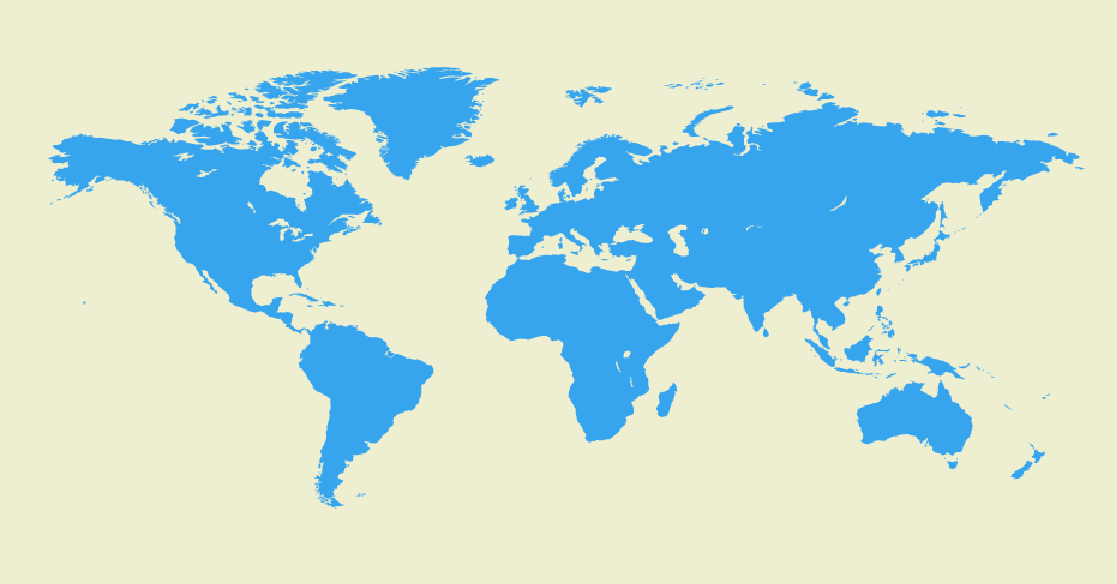
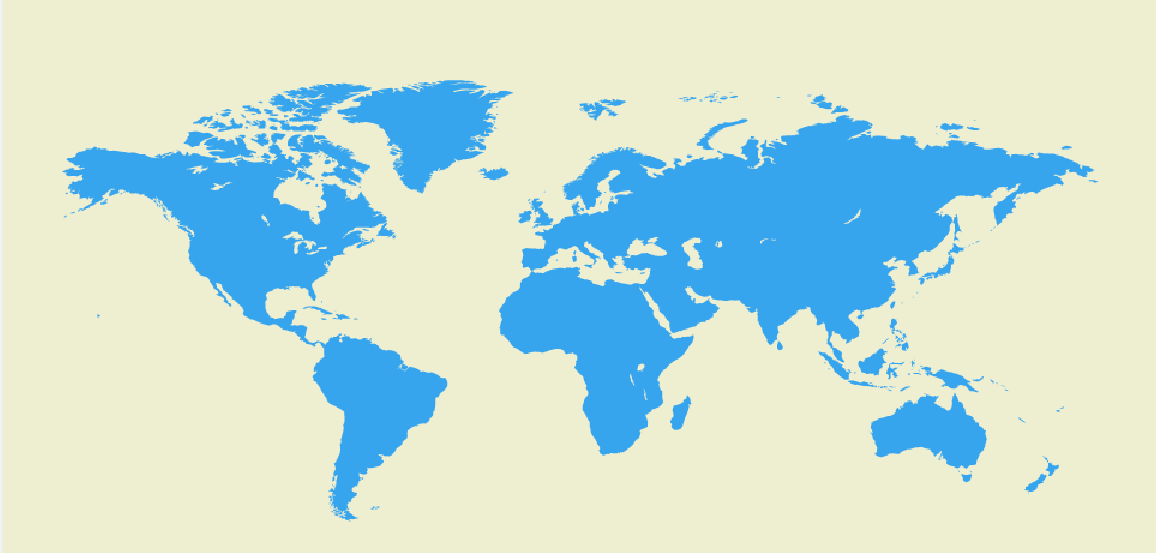
map
map

Changed region(s): [[0.0304, 0.0922, 0.974, 0.953], [0.8827, 0.7685, 0.9436, 0.8915], [0.7305, 0.3382, 0.761, 0.3689]]

diff --git a/src/components/test/login.vue b/src/components/test/login.vue
@@ -1,0 +1,230 @@
+<template lang="html">
+  <div class="tab">
+    <div class="tab-form">
+      <div class="tab-header">
+        <div data-tab="tab" @click="switchTab('common')" v-bind:class="{active: activeTab}" class="common">
+          <p>{{form.common.title.label}}</p>
+          <div>——</div>
+        </div>
+        <div data-tab="tab" @click="switchTab('message')" v-bind:class="{active: !activeTab}"  class="message">
+          <p>{{form.message.title.label}}</p>
+          <div>——</div>
+        </div>
+      </div>
+      <div class="tab-content">
+        <div data-tab="content" v-bind:class="{active: activeTab}"   class="common">
+          <form action="">
+            <div>
+              <input type="text" name="username" value="" autocomplete="off" :placeholder="getForm.common.itemArray.username.placeholder">
+            </div>
+            <div>
+              <input type="password" autocomplete="off"  name="password" value="" :placeholder="getForm.common.itemArray.password.placeholder">
+            </div>
+            <div class="input-icon">
+              <span>{{getForm.common.itemArray.password.label}}</span>
+            </div>
+            <div>
+              <button type="button"  @click="checkLogin()" name="button">{{getForm.common.operation.login.label}}</button>
+            </div>
+            <div>
+              <p>
+                {{getForm.common.operation.login.footer}}<a href="">《{{getForm.common.operation.login.server}}》</a>
+              </p>
+            </div>
+          </form>
+        </div>
+        <div data-tab="content" v-bind:class="{active: !activeTab}"  class="message">
+          <form action="">
+            <div>
+              <input type="text" autocomplete="off"  name="username" value="" :placeholder="getForm.message.itemArray.username.placeholder">
+            </div>
+            <div>
+              <input type="password" autocomplete="off"  name="password" value="" :placeholder="getForm.message.itemArray.verificationCode.placeholder">
+            </div>
+            <div class="input-icon">
+              <span>{{getForm.message.itemArray.verificationCode.label}}</span>
+            </div>
+            <div>
+              <button type="button" @click="checkLogin()" name="button">{{getForm.message.operation.login.label}}</button>
+            </div>
+            <div>
+              <p>
+                {{getForm.message.operation.login.footer}}<a href="">《{{getForm.message.operation.login.server}}》</a>
+              </p>
+            </div>
+          </form>
+        </div>
+      </div>
+    </div>
+  </div>
+</template>
+
+<script>
+import { Request } from '@/assets/js/tools/axios'
+import { Form } from '@/assets/js/tools/form'
+export default {
+  data () {
+    return {
+      activeTab: true,
+      url: '/checkLogin',
+      form: {}
+    }
+  },
+  created: function () {
+    this.getI18nJson()
+  },
+  methods: {
+    getI18nJson () {
+      let json = {}
+      json = require('./zh-CN.json')
+      this.form = json
+    },
+    checkLogin () {
+      const itemArray = this.form.itemArray
+      const params = Form.getFormParamsObject(itemArray)
+      const promise = Request.postResource({
+        url: this.url,
+        params: params
+      })
+      promise.then(function (response) {
+        console.log('response', response)
+      }).catch(function (err) {
+        console.log('err', err)
+      })
+    },
+    switchTab (tab) {
+      if (Object.is(tab, 'common')) {
+        this.activeTab = true
+      } else {
+        this.activeTab = false
+      }
+    }
+  },
+  computed: {
+    getForm () {
+      return this.form.common ? this.form : false
+    }
+  }
+}
+</script>
+
+<style lang="scss">
+/* 去除input填充的黄色 */
+  input:-webkit-autofill {
+    -webkit-box-shadow: 0 0 0px 1000px white inset;
+    border: 1px solid #CCC!important;
+  }
+  *{
+    font-family: sans-serif;
+
+  }
+</style>
+<style lang="scss" scoped>
+  /* 定义变量 */
+  $margin-left:60%;
+  /* 白色字体 */
+  $white-color: white;
+  $button-background: #409EFF;
+  .tab{
+    background: url('../../assets/image/login_back.jpg') no-repeat center center;
+    width:100%;
+    height:100%;
+    background-size:100% 100%;
+    position:absolute;
+    filter:progid:DXImageTransform.Microsoft.AlphaImageLoader(src='../../assets/image/login_back.jpg',sizingMethod='scale');
+  }
+  .tab-form{
+    margin-left: $margin-left;
+    width: 30%;
+    margin-top: 150px;
+    padding-bottom: 10px;
+    padding-top: 10px;
+    background-color: rgba(249, 245, 245, 0.18);
+  }
+  /* 标签头样式 */
+  .tab-header{
+    /* 基本样式 */
+    /* 建立弹性框 */
+    display: -webkit-flex;
+    -webkit-flex-direction: row;
+    display: flex;
+    flex-direction: row;
+    div[data-tab='tab']{
+      -webkit-flex: 1 1 auto;
+      flex: 1 1 auto;
+      width: 50%;
+      -webkit-transition: width 0.7s ease-out;
+      transition: width 0.7s ease-out;
+    }
+    color: #03A9F4;
+    div.active{
+      color: rgb(92, 238, 238);
+    }
+  }
+  form{
+    margin-top: 20px;
+    div{
+      margin-bottom: 15px;
+      input{
+        border-radius: 12px;
+        border: 1px solid $button-background;
+        margin: auto;
+        outline: none;
+        width: 80%;
+        height: 25px;
+        padding-left: 15px;
+      }
+      button{
+        border-radius: 12px;
+        height: 29px;
+        margin-top: 30px;
+        background-color: $button-background;
+        width: 85%;
+        border: none;
+        color: $white-color;
+      }
+      p{
+        font-size: 4px;
+        a{
+          text-decoration: none;
+          color: $button-background;
+        }
+      }
+    }
+    div.input-icon{
+      color: grey;
+      width: 90%;
+      text-align: right;
+      span{
+      }
+    }
+  }
+  ::-webkit-input-placeholder{
+    padding-left: 3px;
+  }
+  /* 标签内容样式 */
+  .tab-content{
+    margin-top: 50px;
+    -webkit-flex-direction: row;
+    flex-direction: row;
+    color: black;
+
+    div[data-tab="content"]{
+      -webkit-flex: 1 1 auto;
+      flex: 1 1 auto;
+      -webkit-transition: width 0.7s ease-out;
+      transition: width 0.7s ease-out;
+      display: none;
+    }
+    div[data-tab="content"].active{
+      display: block;
+    }
+    p{
+      color: $white-color;
+      a{
+        color: $white-color;
+      }
+    }
+
+  }
+</style>

diff --git a/src/components/Home.vue b/src/components/Home.vue
@@ -3,7 +3,7 @@
   <el-menu
     class="el-menu-demo"
     mode="horizontal"
-    background-color="#545c64"
+    background-color="#009999"
     text-color="#fff"
     active-text-color="#ffd04b">
 <img src="../image/navLogo.png"  style="position:absolute;left:-10px;margin:7px">
@@ -77,18 +77,24 @@
       :props="defaultProps"
       accordion
       @node-click="handleNodeClick"
-      style="width:230px;height:100%;margin-left:30px;position:absolute;margin-top:15px;background-color:DCDFE6">
+      style="min-height:595px;background-color:#DCDFE6;width:250px;">
     </el-tree>
 
-    <el-button-group  >
+    <!-- <el-button-group  >
       <el-button type="primary" icon="el-icon-location"></el-button>
       <el-button type="primary" icon="el-icon-zoom-in"></el-button>
       <el-button type="primary" icon="el-icon-zoom-in"></el-button>
       <el-button type="primary" icon="el-icon-share"></el-button>
       <el-button type="primary" icon="el-icon-more"></el-button>
-    </el-button-group>
+    </el-button-group> -->
 
-    <img src="../image/map3.png" style="margin-left:255px;">
+    <img src="../image/map7.png" style="  position: absolute;
+      left: 250px;
+      top:65px">
+
+      <div class="zi">
+      <p>{{messages}}</p>
+      </div>
 
 </div>
 </template>
@@ -116,7 +122,8 @@ export default {
         defaultProps: {
           children: 'children',
           label: 'label'
-        }
+        },
+        messages:'Copyright © 2017-2018 SinoTelecom版本所有'
       };
     },
   methods: {
@@ -153,15 +160,15 @@ body{
   padding-left: 120px;
    position:relative;
 }
-.el-button-group{
+/* .el-button-group{
   padding-right: 550px;
 
-}
-.el-button--primary{
+} */
+/* .el-button--primary{
 background-color:#545c64;
 color:#fff;
 border-color:#545c64
-}
+} */
 .alarm1{
   margin:22px;
   margin-left:0px
@@ -181,5 +188,14 @@ border-color:#545c64
 .alarm5{
     margin: 22px;
     margin-left: 30px
+}
+.zi{
+  height: 49px;
+  width: 1115px;
+  background-color: #009999;
+  position: absolute;
+  left:250px;
+  bottom: 2px;
+  text-align: center;
 }
 </style>

diff --git a/src/components/HomeOne.vue b/src/components/HomeOne.vue
@@ -1,5 +1,5 @@
 <template>
-    <div style="background-color: #EBEBEB;min-height:650px">
+    <div style="background-color: #EBEBEB;min-height:570px">
         <div style="width:100%;background-color: #009999; overflow: hidden;height:50px">
             <span class="demonstration" style="float:left;padding-top:14px;color:white;margin-left:7%">
                 首页
@@ -49,7 +49,7 @@
                 <el-col :xs="4" :sm="4" :md="4" :lg="4">
                     <div>
 
-      <el-menu default-active="1" class="el-menu-vertical-demo" style="min-height:650px;background-color:#DCDFE6">
+      <el-menu default-active="1" class="el-menu-vertical-demo" style="min-height:590px;background-color:#DCDFE6">
         <el-submenu index="1">
           <template slot="title">系统管理</template>
           <el-menu-item index="1-1">网管版本号</el-menu-item>
@@ -86,13 +86,13 @@
                     <div>
                         <div style="border: 1px solid #A6A6A6; border-radius:6px; padding:5px; margin:2px; background-color: white;position:relative; ">
                             <el-breadcrumb separator="/">
-                                <el-breadcrumb-item v-for="item in breadcrumbItems">{{item}}</el-breadcrumb-item>
+                                <el-breadcrumb-item >{{item}}</el-breadcrumb-item>
                             </el-breadcrumb>
                         </div>
                     </div>
                 </el-col>
             </el-row>
-              <img src="../image/map1.png" style=" position:absolute;top:100px;left:220px">
+              <img src="../image/map2.png" style=" position:absolute;top:90px;left:220px">
         </div>
     </div>
 
@@ -107,7 +107,8 @@
         data(){
             return {
                 searchCriteria: '',
-                breadcrumbItems: ['导航一'],
+                
+                item:'导航一'
             }
         },
 

diff --git a/src/components/HelloWorld.vue b/src/components/HelloWorld.vue
@@ -104,7 +104,7 @@ export default {
             // _this.formName.userError = '登陆成功'
             console.log(response);
             _this.$router.push({
-              path: '/HomeTwo'
+              path: '/HomeOne'
             });
           } else if (_this.formName.user != '' && _this.formName.password != '' && response.data === false) {
             _this.formName.userError = '用户名或密码错误'

diff --git a/src/components/HomeThree.vue b/src/components/HomeThree.vue
@@ -1,0 +1,14 @@
+<template lang="html">
+<div class="">
+  <img src="../image/map2.png" >
+</div>
+</template>
+
+<script>
+/*eslint-disable*/
+export default {
+}
+</script>
+
+<style lang="css">
+</style>
